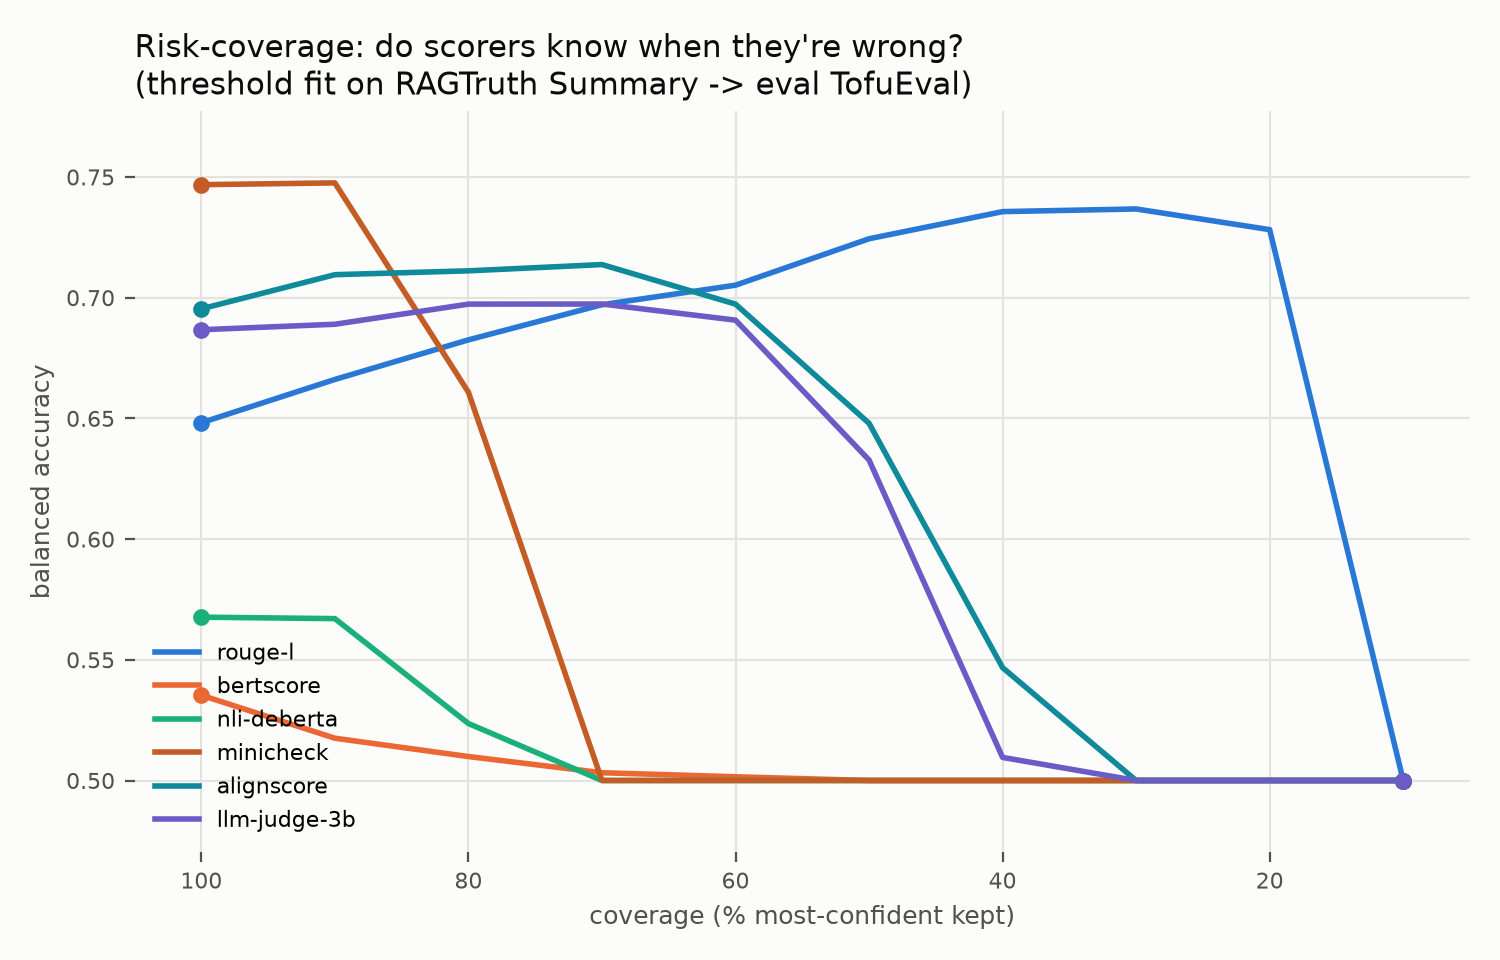
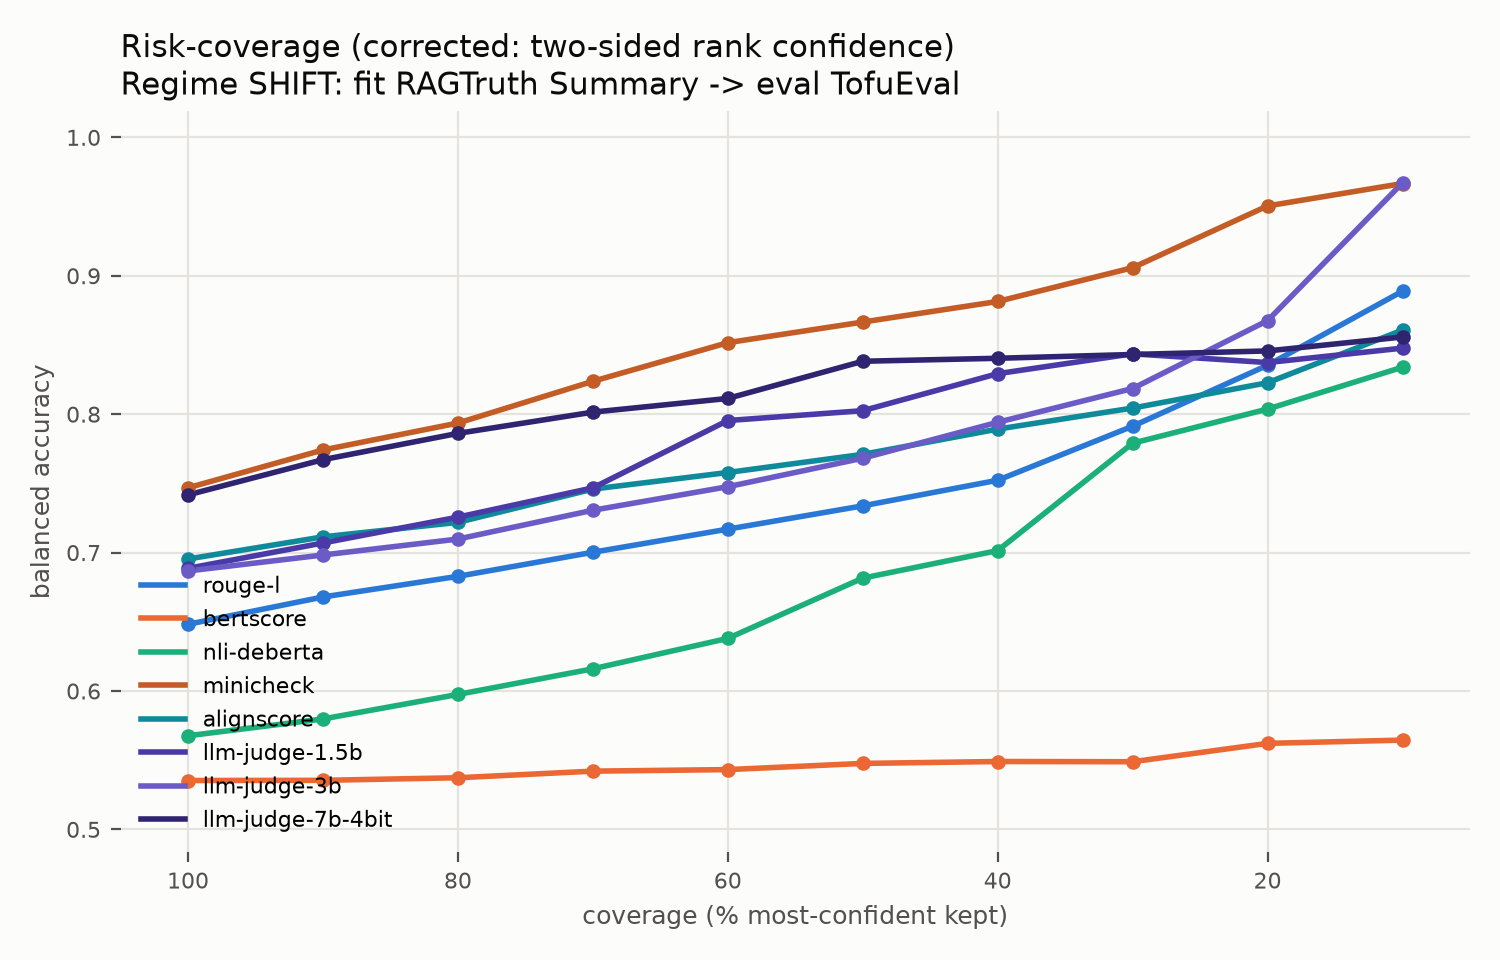
fix: corrected calibration results and README section

diff --git a/README.md b/README.md
@@ -253,42 +253,76 @@ CIs still overlap NLI and each other.
 
 Accuracy ranks scorers by whether they are right. Deployment often needs a
 different property: whether a scorer’s **own confidence** flags its errors
-(selective prediction, cascades, human review). Confidence here is
-`c = |score − t|` (min-max normalized on the eval set), with threshold `t`
-fit on a **different** corpus — never the evaluation examples. Default
-protocol: fit on RAGTruth Summary, evaluate on TofuEval (and the swap).
-Analysis lives in `calibration.py` (saved preds only; no GPU).
+(selective prediction, cascades, human review). Analysis in `calibration.py`.
 
-### Risk–coverage (fit RT Summary → eval TofuEval)
+**Correction.** An earlier version of this section used `c = |score − t|`. When
+`t` is off-centre (e.g. MiniCheck `t ≈ 0.23`), that measure ranks one side of
+the threshold above the other, so top-coverage slices become single-class and
+balanced accuracy collapses to 0.5 by construction — not a real finding.
+Degenerate coverage points are now reported as `null` and dropped from AURC.
+Judges are no longer mixed into cross-dataset tables via a within-RAGTruth
+split; 1.5B and 7B-4bit were run on TofuEval so every scorer faces the same
+protocol.
 
-| scorer | full-set AUC | acc@50% coverage | AURC ↓ | AURC 95% CI |
-|---|---:|---:|---:|---|
-| llm-judge-7b-4bit† | 0.790 | **0.814** | **0.244** | 0.206–0.282 |
-| rouge-l | 0.724 | 0.724 | 0.275 | 0.252–0.298 |
-| llm-judge-1.5b† | 0.728 | 0.739 | 0.301 | 0.265–0.342 |
-| alignscore | 0.785 | 0.648 | 0.338 | 0.323–0.353 |
-| llm-judge-3b | 0.792 | 0.633 | 0.349 | 0.332–0.361 |
-| minicheck | **0.832** | 0.500 | 0.397 | 0.364–0.405 |
-| nli-deberta | 0.704 | 0.500 | 0.438 | — |
-| bertscore | 0.697 | 0.500 | 0.445 | 0.443–0.447 |
+**Corrected confidence (two definitions, reported side by side):**
+**(a)** isotonic `score → P(faithful)` on the fit split, then `c = |p − 0.5|`;
+**(b)** two-sided rank: percentile of `s` within the same side of `t`.
 
-† 1.5B / 7B-4bit lack TofuEval preds → seeded 50/50 within-RAGTruth split.
-Caption protocol: threshold fit on fit-set; confidence and metrics on eval-set.
+**Two regimes (never mixed in one ranking):**
+- **IN** — 5-fold CV within a dataset (fit on 4 folds, eval held-out).
+- **SHIFT** — fit on one corpus, evaluate on the other; omit scorers missing
+  either side.
 
-**AUC ranking ≠ AURC ranking** (`rankings_match: false`). MiniCheck leads on
-AUC but sits mid/low on AURC; its top-50% confident slice is no better than
-chance on this transfer (acc@50% = 0.500). Judges and ROUGE-L gate their own
-errors better despite lower full-set AUC. The reverse direction
-(TofuEval → RT Summary) also disagrees on rankings. See
-[`calibration.png`](calibration.png) and `results-calibration.json`.
+### Risk–coverage — Regime SHIFT (fit RT Summary → eval TofuEval)
+
+| scorer | AUC | acc@50% (a) | AURC (a) ↓ | acc@50% (b) | AURC (b) ↓ |
+|---|---:|---:|---:|---:|---:|
+| minicheck | **0.832** | 0.679 | 0.243 | **0.867** | **0.130** |
+| llm-judge-7b-4bit | 0.795 | **0.806** | **0.146** | 0.838 | 0.167 |
+| llm-judge-3b | 0.792 | 0.731 | 0.251 | 0.768 | 0.204 |
+| alignscore | 0.785 | 0.811 | 0.238 | 0.771 | 0.210 |
+| llm-judge-1.5b | 0.755 | 0.775 | 0.231 | 0.803 | 0.194 |
+| rouge-l | 0.724 | 0.590 | 0.336 | 0.734 | 0.235 |
+| nli-deberta | 0.704 | null | null | 0.682 | 0.290 |
+| bertscore | 0.697 | 0.543 | 0.401 | 0.548 | 0.408 |
+
+Under **(b) two-sided rank**, MiniCheck leads both AUC and AURC on this
+transfer; the AURC order still differs from AUC in the mid ranks
+(`rankings_match: false`). Under **(a) calibrated**, 7B leads AURC and the
+ranking diverges more (NLI’s AURC is `null` — too many degenerate coverage
+points). So: with a threshold-symmetric confidence, accuracy and
+self-knowledge **mostly track** (MiniCheck is no longer “accurate but blind”);
+the two confidence definitions still disagree with each other. Full IN tables
+and the reverse SHIFT direction: `results-calibration-regimes.json`.
+Figure (gaps = null points, not interpolated): [`calibration.png`](calibration.png).
 
 ![Risk–coverage curves](calibration.png)
 
+### Threshold transferability
+
+How badly does a decision threshold port? `t_A` fit on A, applied to B, vs
+B’s own `t_B`. Penalty = bal-acc(t_B) − bal-acc(t_A).
+
+| scorer | RT→TF penalty | TF→RT penalty |
+|---|---:|---:|
+| llm-judge-7b-4bit | **0.006** | 0.022 |
+| minicheck | 0.012 | 0.024 |
+| llm-judge-1.5b | 0.013 | 0.027 |
+| rouge-l | 0.031 | 0.062 |
+| llm-judge-3b | 0.031 | **0.146** |
+| alignscore | 0.034 | 0.126 |
+| nli-deberta | 0.104 | 0.064 |
+| bertscore | **0.139** | 0.121 |
+
+**Not** the expected “trained metrics all shift / ROUGE ports.” MiniCheck and
+the 1.5B/7B judges transfer thresholds well; BERTScore, AlignScore (TF→RT),
+and the 3B judge (TF→RT, `t` jumps 0.06 ↔ 0.55) do not. Details:
+`results-threshold-transfer.json`.
+
 ### Cascade gate sweep (RAGTruth Summary → 7B-4bit)
 
-Same soft-cascade protocol as `cascade.py` (uncertain tertile band, soft-keep
-cheap score); only the cheap gate changes. Imported `soft_cascade` as-is —
-no change to `cascade.py` defaults.
+Unaffected by the confidence bug (uses mid-band escalation, not `|s−t|`).
+Same soft-cascade protocol as `cascade.py`; only the cheap gate changes.
 
 | gate | cascade AUC | mean ms/doc | escalated % | % of 7B AUC | % of 7B latency |
 |---|---:|---:|---:|---:|---:|
@@ -298,27 +332,19 @@ no change to `cascade.py` defaults.
 | alignscore | 0.746 | 495 | 34% | 95% | 42% |
 | llm-judge-1.5b | 0.748 | 597 | 33% | 95% | 51% |
 
-MiniCheck is more accurate than NLI on this data, and as a **gate** the gap
-is larger still: MiniCheck-gated retains ~100% of 7B AUC at 62% latency vs
-NLI-gated 82% at 40% (ΔAUC ≈ +0.139). The 1.5B judge remains a strong
-latency/quality compromise (95% AUC at 51% latency). Accuracy and gating
-quality **do** track for MiniCheck vs NLI on this cascade, even though
-MiniCheck’s cross-dataset risk–coverage self-knowledge is weak. Details:
+MiniCheck-gated retains ~100% of 7B AUC at 62% latency vs NLI-gated 82% at
+40% (ΔAUC ≈ +0.139). Confirmed unchanged after the calibration fix.
 `results-cascade-gates.json`.
 
-### Cross-dataset calibration error
+### Calibration error (ECE / Brier)
 
-Isotonic `score → P(faithful)` fit on one corpus, ECE (10 bins) + Brier on
-the other (`results-ece.json`). Two failure modes show up:
-
-- **Accurate but ordering-uninformative:** MiniCheck / NLI on RT→TF (good or
-  middling AUC, bad AURC; MiniCheck ECE is actually fine after isotonic).
-- **Ordering OK, probs miscalibrated:** AlignScore and 3B judge on RT→TF
-  (usable AURC, high ECE).
-- **Relatively well-calibrated:** ROUGE-L on both directions.
-
-So accuracy, selective-prediction self-knowledge, and probability calibration
-are separable properties — pick the metric that matches the deployment use.
+Isotonic `score → P(faithful)` under the same IN / SHIFT regimes
+(`results-ece-corrected.json`; prior `results-ece.json` kept). IN ECE is low
+for everyone (~0.01–0.03). SHIFT ECE is where scores break: AlignScore and
+especially llm-judge-3b on RT→TF (ECE 0.164 / 0.258) while MiniCheck and
+ROUGE-L stay nearer 0.06. Probability miscalibration under shift is real;
+the earlier “MiniCheck ordering-uninformative” label was an artifact of
+degenerate `|s−t|` confidence.
 
 ## Benchmark
 
